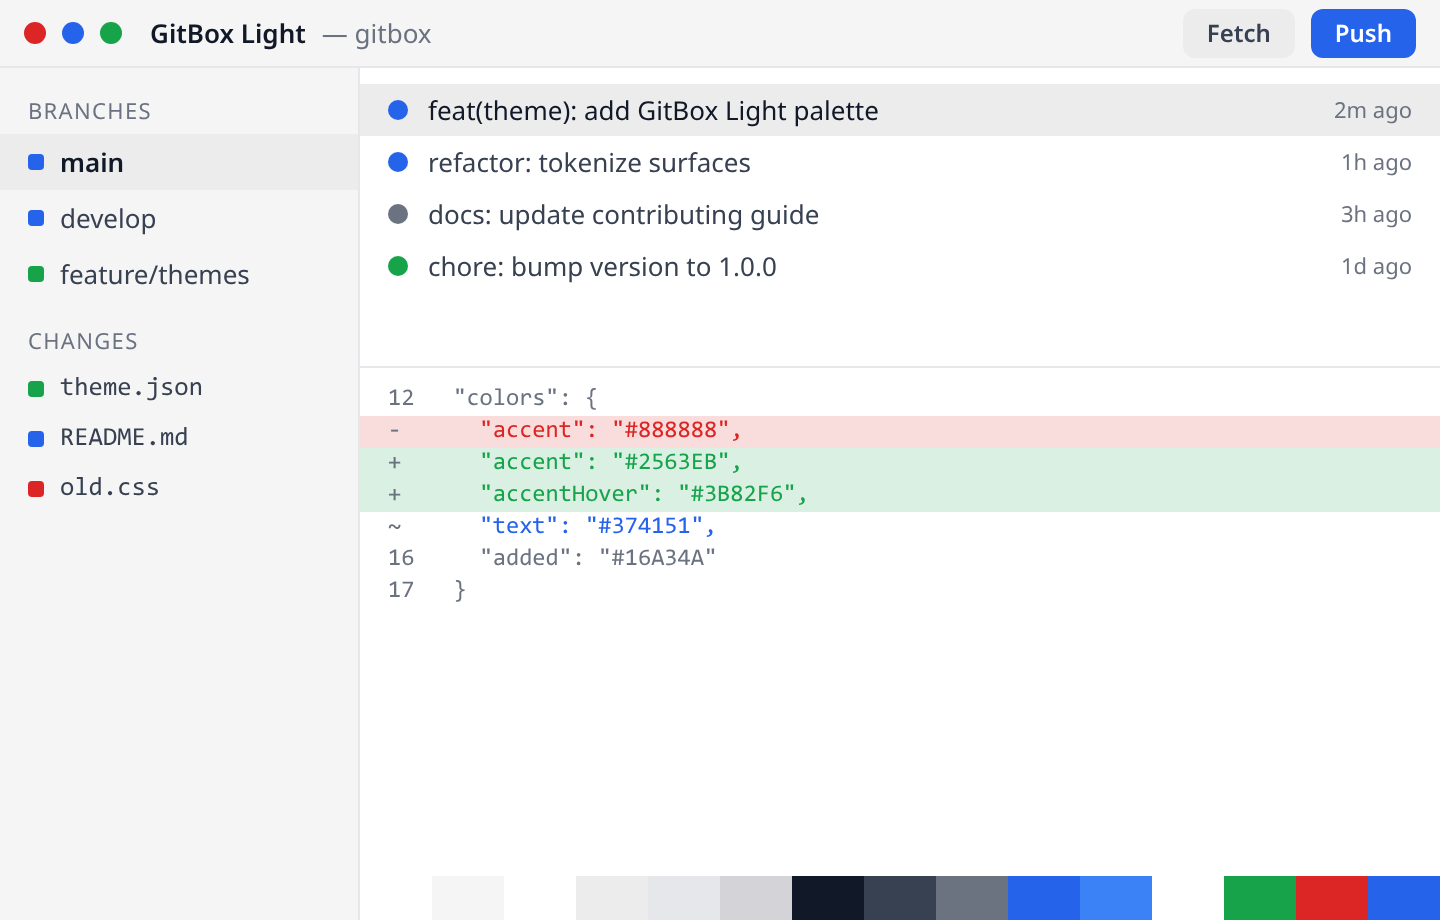
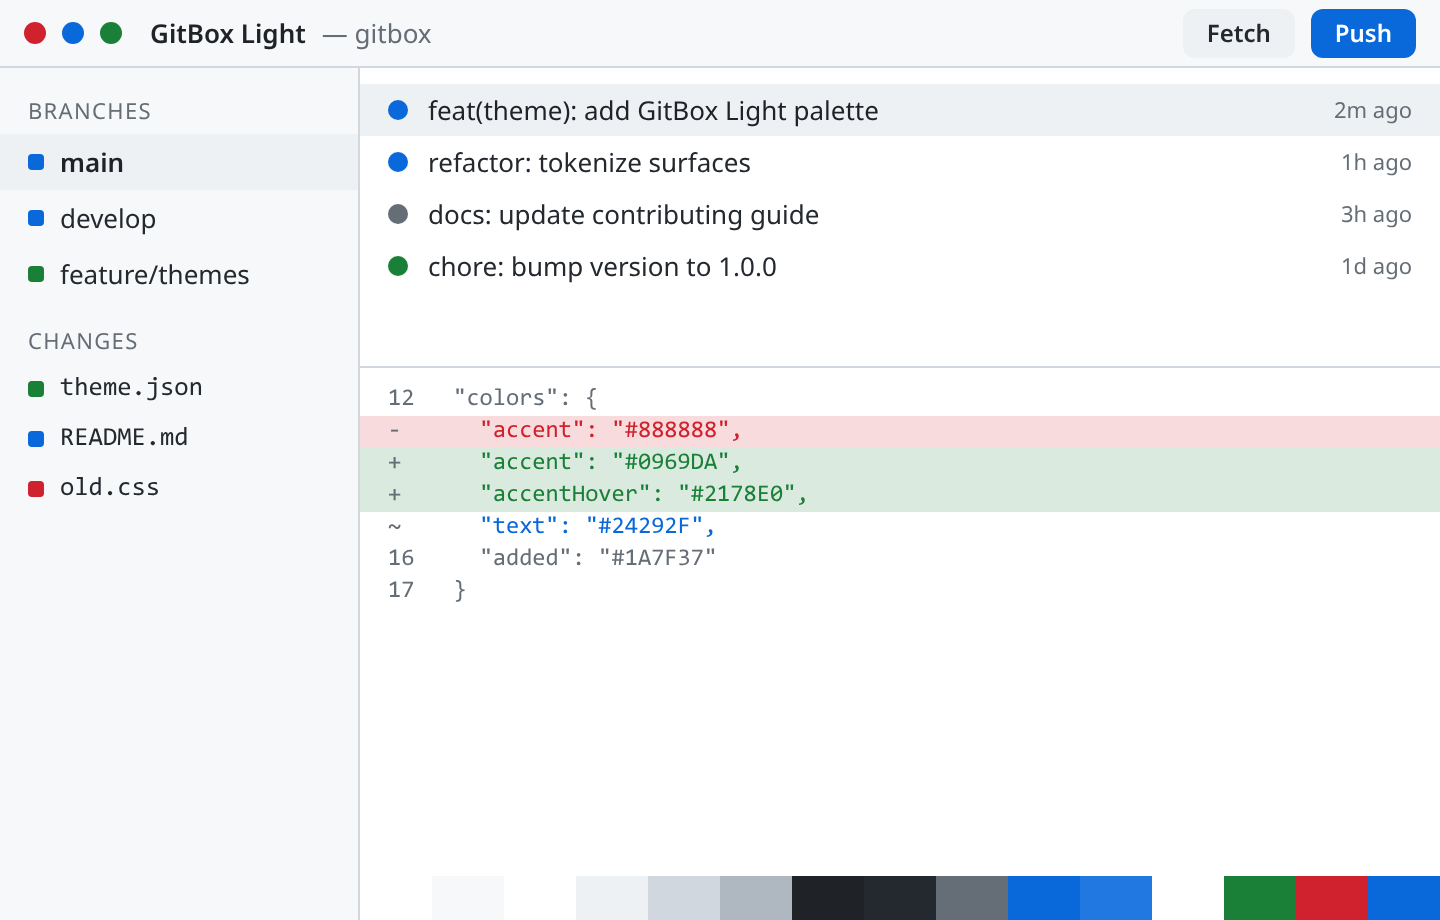
Make GitBox Light use the GitHub-style palette; drop separate GitHub Light
GitBox Light now ships the GitHub light palette (our default light theme), and
the redundant standalone GitHub Light theme is removed.

diff --git a/themes/gitbox-light/README.md b/themes/gitbox-light/README.md
@@ -27,20 +27,20 @@ https://raw.githubusercontent.com/gitgusilva/gitbox-themes/main/themes/gitbox-li
 | Token | Hex | Role |
 | --- | --- | --- |
 | `bg` | `#FFFFFF` | Base application background |
-| `bgElevated` | `#F5F5F5` | Panels, headers, sidebars |
+| `bgElevated` | `#F6F8FA` | Panels, headers, sidebars |
 | `bgOverlay` | `#FFFFFF` | Menus, popovers, modals |
-| `surfaceHover` | `#ECECEC` | Hover background for interactive surfaces |
-| `border` | `#E5E7EB` | Default borders and dividers |
-| `borderStrong` | `#D4D4D8` | Emphasized borders |
-| `textStrong` | `#111827` | Headings and high-emphasis text |
-| `text` | `#374151` | Primary text |
-| `textMuted` | `#6B7280` | Secondary and muted text |
-| `accent` | `#2563EB` | Primary action and selection |
-| `accentHover` | `#3B82F6` | Accent hover state |
+| `surfaceHover` | `#EEF1F4` | Hover background for interactive surfaces |
+| `border` | `#D0D7DE` | Default borders and dividers |
+| `borderStrong` | `#AFB8C1` | Emphasized borders |
+| `textStrong` | `#1F2328` | Headings and high-emphasis text |
+| `text` | `#24292F` | Primary text |
+| `textMuted` | `#656D76` | Secondary and muted text |
+| `accent` | `#0969DA` | Primary action and selection |
+| `accentHover` | `#2178E0` | Accent hover state |
 | `accentFg` | `#FFFFFF` | Foreground drawn on top of the accent |
-| `added` | `#16A34A` | Git added / incoming |
-| `removed` | `#DC2626` | Git removed |
-| `modified` | `#2563EB` | Git modified / current |
+| `added` | `#1A7F37` | Git added / incoming |
+| `removed` | `#CF222E` | Git removed |
+| `modified` | `#0969DA` | Git modified / current |
 
 ## Typography
 

diff --git a/README.md b/README.md
@@ -22,23 +22,23 @@ to show up in the app's theme repository.
     </td>
     <td width="50%" align="center" valign="top">
       <a href="themes/dracula/README.md"><img src="themes/dracula/[email redacted]" width="100%" alt="Dracula preview"></a><br>
-      <sub><b>Dracula</b> — Dracula Theme<br><code>themes/dracula</code></sub>
+      <sub><b>Dracula</b> — GitBox<br><code>themes/dracula</code></sub>
     </td>
   </tr>
   <tr>
     <td width="50%" align="center" valign="top">
       <a href="themes/one-dark-pro/README.md"><img src="themes/one-dark-pro/[email redacted]" width="100%" alt="One Dark Pro preview"></a><br>
-      <sub><b>One Dark Pro</b> — binaryify<br><code>themes/one-dark-pro</code></sub>
+      <sub><b>One Dark Pro</b> — GitBox<br><code>themes/one-dark-pro</code></sub>
     </td>
     <td width="50%" align="center" valign="top">
       <a href="themes/nord/README.md"><img src="themes/nord/[email redacted]" width="100%" alt="Nord preview"></a><br>
-      <sub><b>Nord</b> — Arctic Ice Studio<br><code>themes/nord</code></sub>
+      <sub><b>Nord</b> — GitBox<br><code>themes/nord</code></sub>
     </td>
   </tr>
   <tr>
     <td width="50%" align="center" valign="top">
       <a href="themes/monokai/README.md"><img src="themes/monokai/[email redacted]" width="100%" alt="Monokai preview"></a><br>
-      <sub><b>Monokai</b> — Wimer Hazenberg<br><code>themes/monokai</code></sub>
+      <sub><b>Monokai</b> — GitBox<br><code>themes/monokai</code></sub>
     </td>
     <td width="50%"></td>
   </tr>
@@ -54,15 +54,8 @@ to show up in the app's theme repository.
     </td>
     <td width="50%" align="center" valign="top">
       <a href="themes/solarized-light/README.md"><img src="themes/solarized-light/[email redacted]" width="100%" alt="Solarized Light preview"></a><br>
-      <sub><b>Solarized Light</b> — Ethan Schoonover<br><code>themes/solarized-light</code></sub>
+      <sub><b>Solarized Light</b> — GitBox<br><code>themes/solarized-light</code></sub>
     </td>
-  </tr>
-  <tr>
-    <td width="50%" align="center" valign="top">
-      <a href="themes/github-light/README.md"><img src="themes/github-light/[email redacted]" width="100%" alt="GitHub Light preview"></a><br>
-      <sub><b>GitHub Light</b> — GitHub<br><code>themes/github-light</code></sub>
-    </td>
-    <td width="50%"></td>
   </tr>
 </table>
 